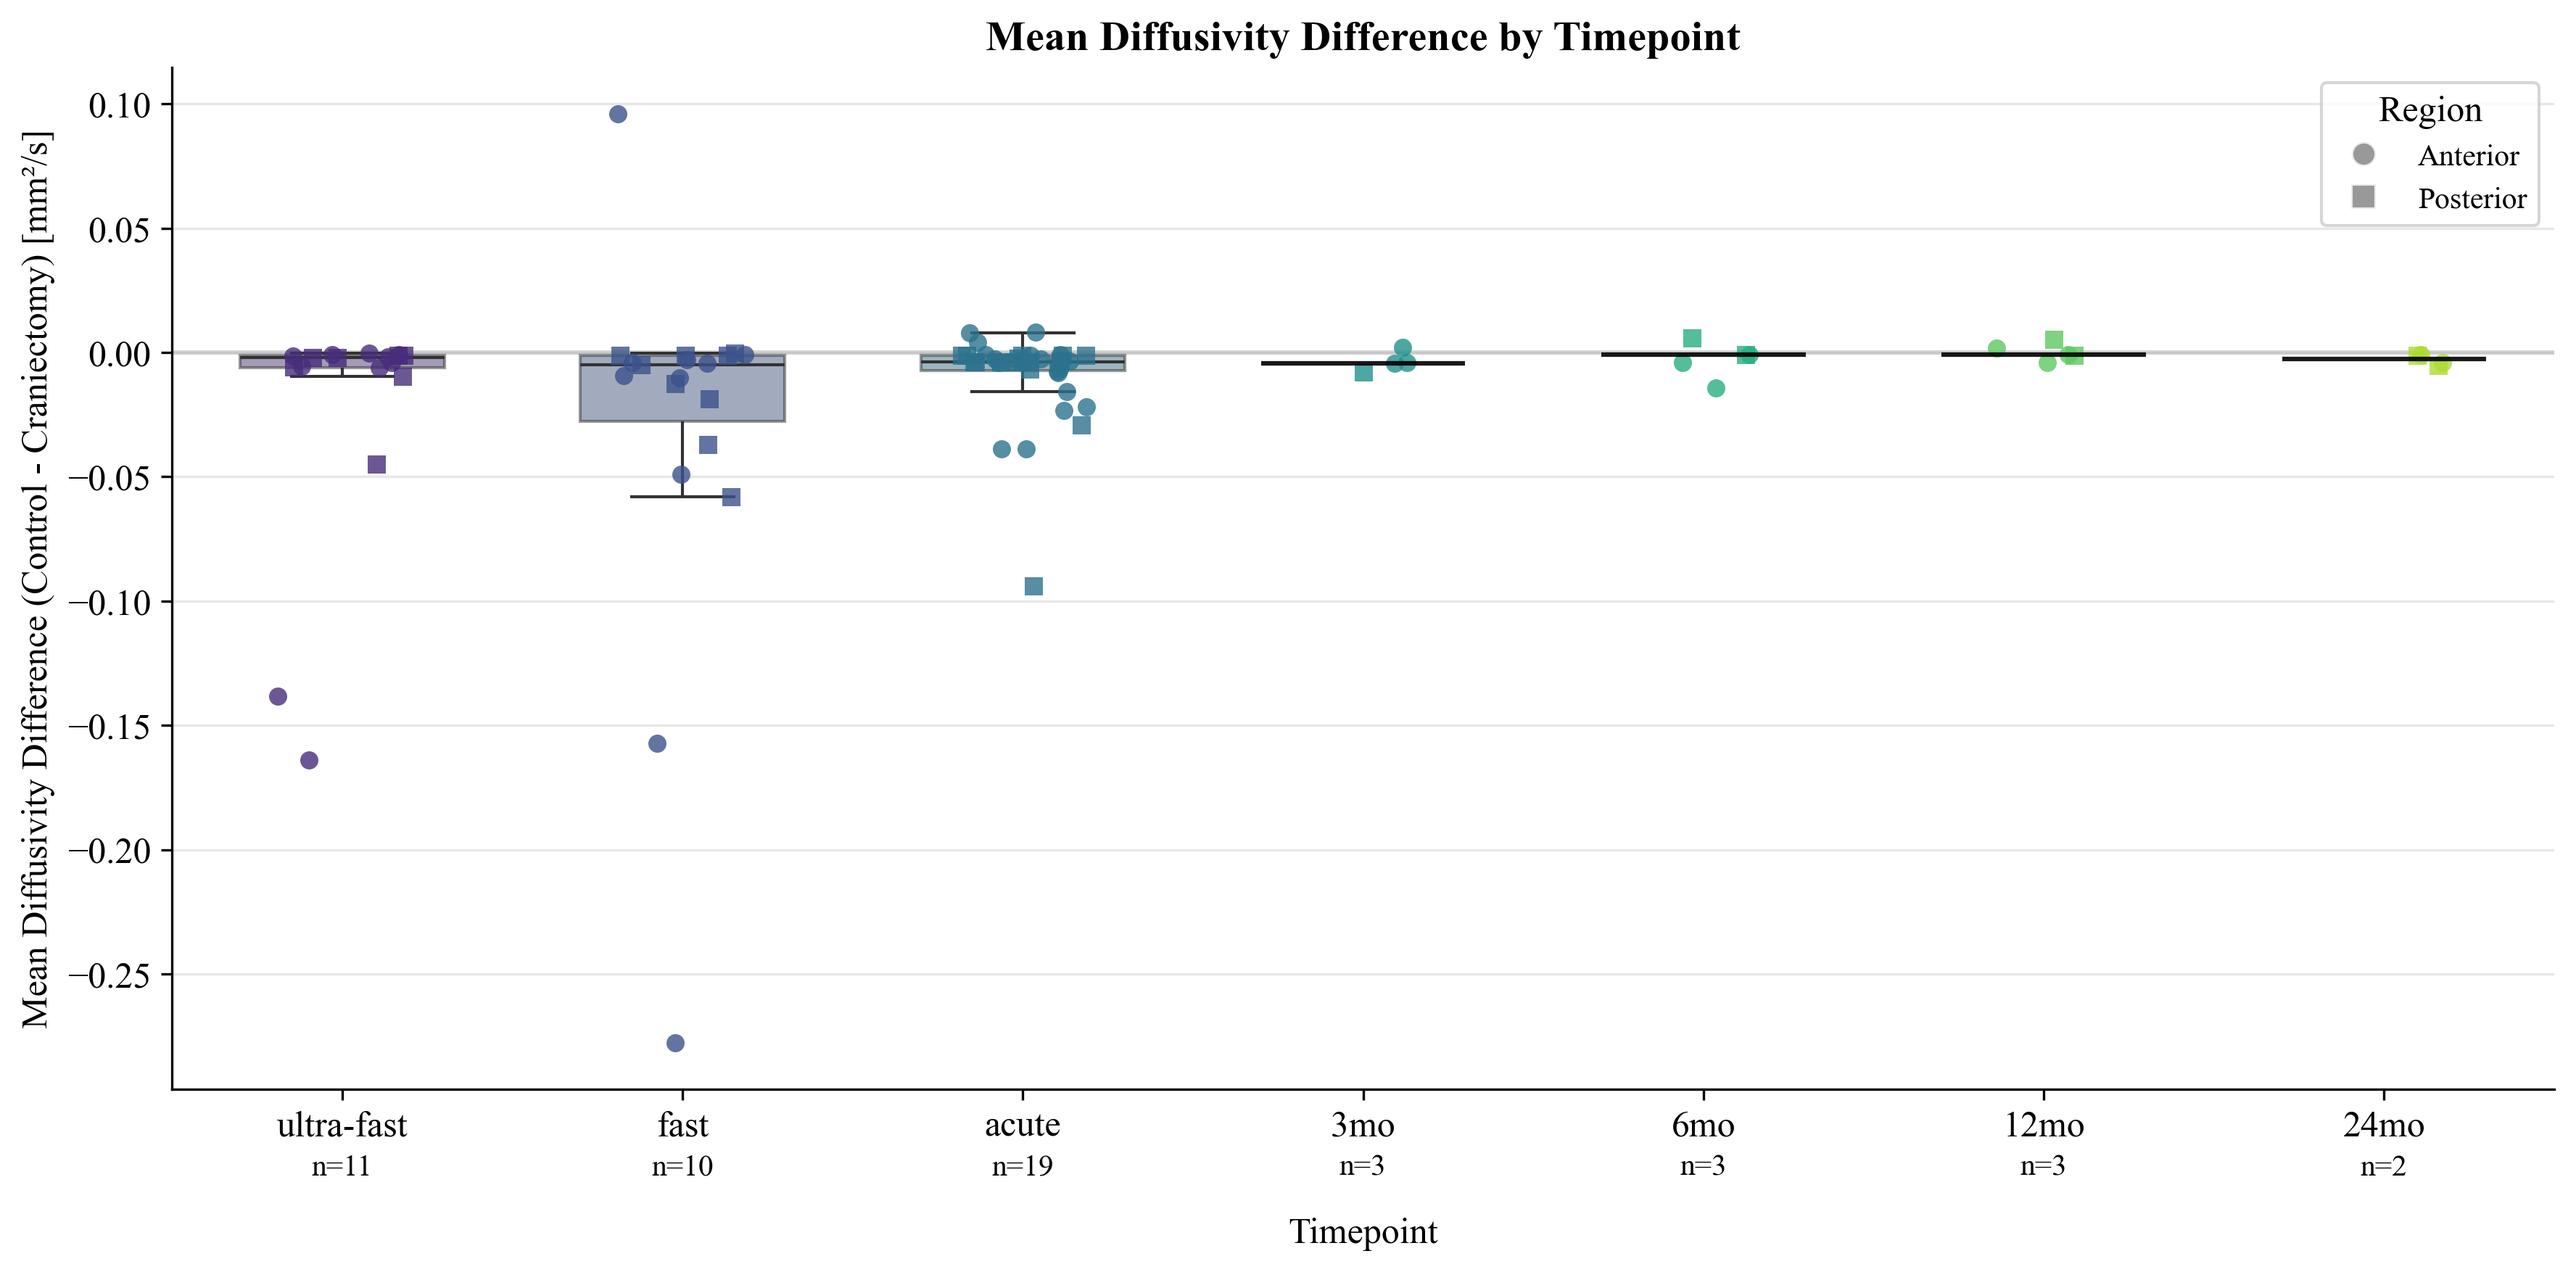
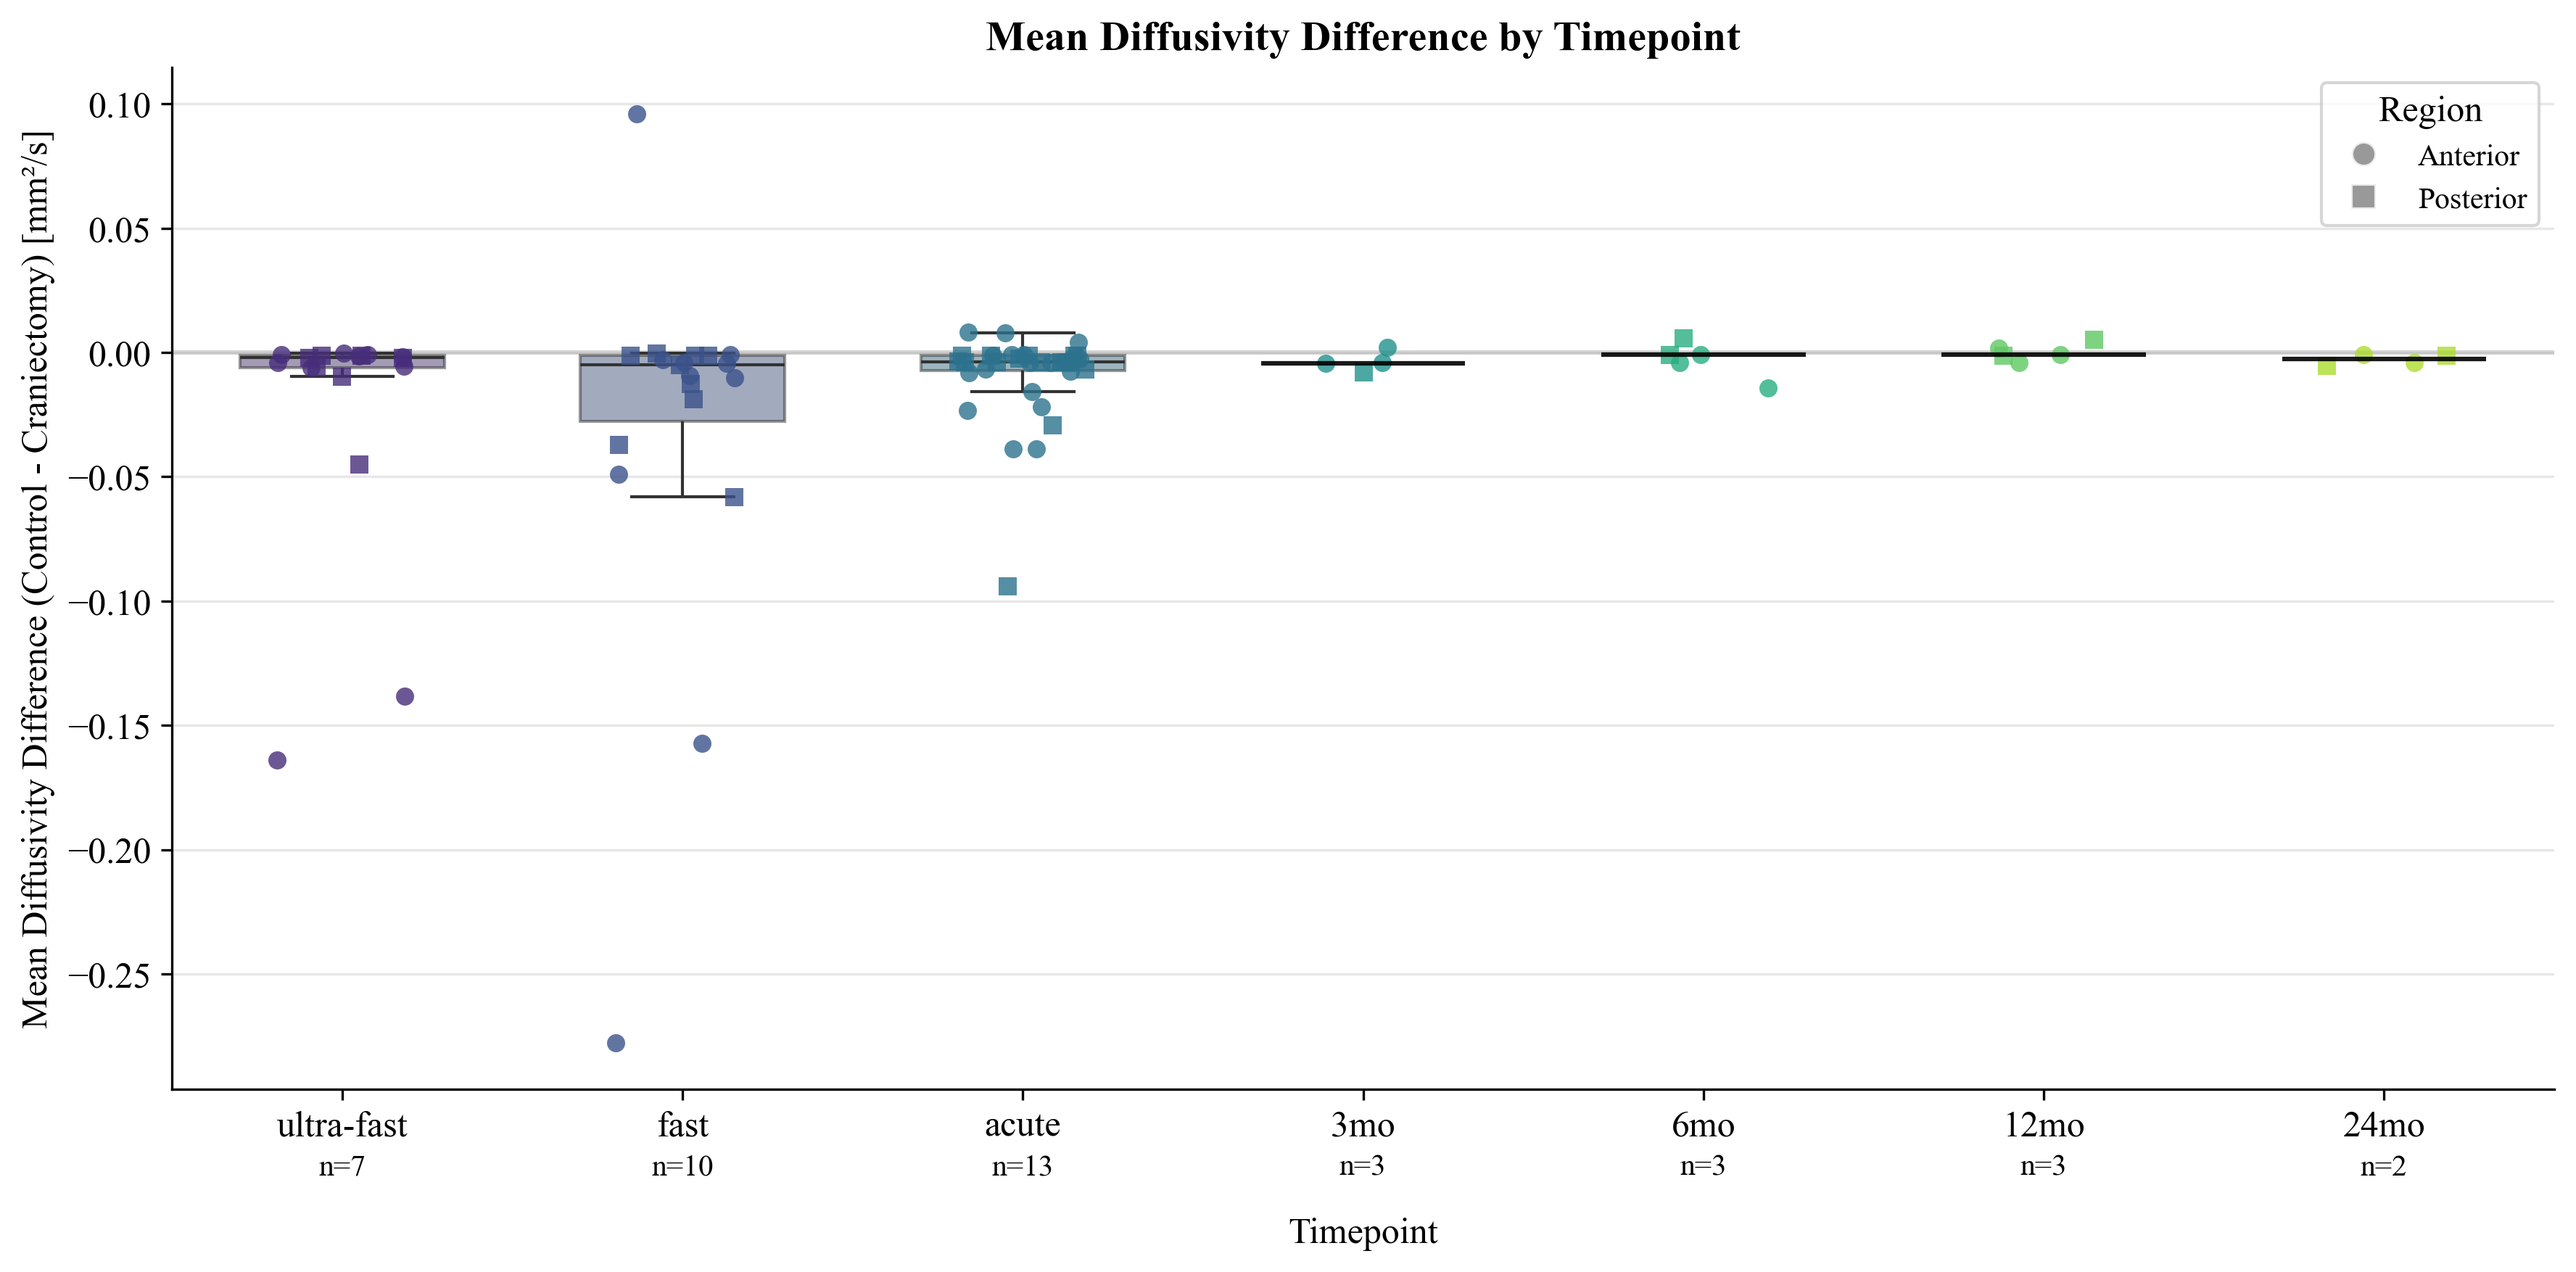
fix incorrect counting

diff --git a/DTI_Processing_Scripts/dti_results_plotting_main.py b/DTI_Processing_Scripts/dti_results_plotting_main.py
@@ -430,7 +430,13 @@ def create_timepoint_boxplot_recategorised_dti(df, parameter, timepoints=['ultra
     
     # Show count of patients per timepoint
     for i, tp in enumerate(timepoints):
-        count = len(df[df['timepoint'] == tp])
+        # Get subset of df_filtered for this timepoint
+        df_tp = df_filtered[df_filtered['timepoint'] == tp]
+
+        # Count unique patients with at least one non-null anterior or posterior value
+        count = df_tp[(~df_tp[anterior_column].isna()) | (~df_tp[posterior_column].isna())]['patient_id'].nunique()
+
+        # count = melted_data[(melted_data['timepoint'] == tp) & (~melted_data['diff_value'].isna())].shape[0] // 2
         if count > 0:
             if parameter == 'fa':
                 ax.text(i, ax.get_ylim()[0] * 1.35, f"n={count}",
@@ -2040,13 +2046,13 @@ if __name__ == '__main__':
 
 
 
-    # Call the function with your data
-    matrix = data_availability_matrix(
-        data=wm_data_roi_567, 
-        timepoints=['ultra-fast', 'fast', 'acute', '3mo', '6mo', '12mo', '24mo'],
-        diff_column='fa_anterior_diff',  # or any other diff column
-        filename='fa_diff_data_availability.png'
-    )
+    # # Call the function with your data
+    # matrix = data_availability_matrix(
+    #     data=wm_data_roi_567, 
+    #     timepoints=['ultra-fast', 'fast', 'acute', '3mo', '6mo', '12mo', '24mo'],
+    #     diff_column='fa_anterior_diff',  # or any other diff column
+    #     filename='fa_diff_data_availability.png'
+    # )
 
    
     create_timepoint_boxplot_recategorised_dti(df=wm_data_roi_567, parameter='fa', timepoints=['ultra-fast', 'fast', 'acute', '3mo', '6mo', '12mo', '24mo'])
